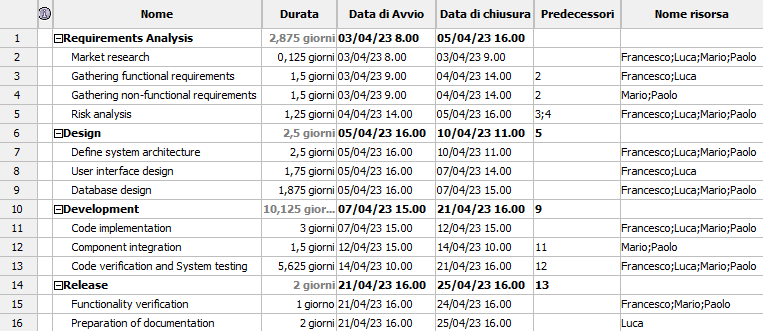
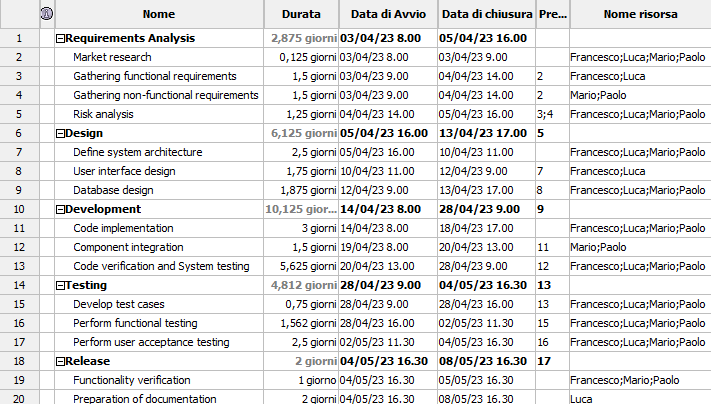
EstimationV2

diff --git a/EstimationV2.md b/EstimationV2.md
@@ -1,7 +1,7 @@
 # Project Estimation - FUTURE
-Date:
+Date: 21/04/2023
 
-Version:
+Version: 2
 
 
 # Estimation approach
@@ -10,34 +10,105 @@ Consider the EZWallet  project in FUTURE version (as proposed by the team), assu
 ### 
 |             | Estimate                        |             
 | ----------- | ------------------------------- |  
-| NC =  Estimated number of classes to be developed   |                             |             
-|  A = Estimated average size per class, in LOC       |                            | 
-| S = Estimated size of project, in LOC (= NC * A) | |
-| E = Estimated effort, in person hours (here use productivity 10 LOC per person hour)  |                                      |   
-| C = Estimated cost, in euro (here use 1 person hour cost = 30 euro) | | 
-| Estimated calendar time, in calendar weeks (Assume team of 4 people, 8 hours per day, 5 days per week ) |                    |               
+| NC =  Estimated number of classes to be developed   | 9 |             
+| A = Estimated average size per class, in LOC       | 56 LOC/NC | 
+| S = Estimated size of project, in LOC (= NC * A)  | 500 LOC |
+| E = Estimated effort, in person hours (here use productivity 10 LOC per person hour)  | 50 ph |   
+| C = Estimated cost, in euro (here use 1 person hour cost = 30 euro) | 1500 EUR | 
+| Estimated calendar time, in calendar weeks (Assume team of 4 people, 8 hours per day, 5 days per week ) | 0,3 week |               
 
 # Estimate by product decomposition
 ### 
 |         component name    | Estimated effort (person hours)   |             
 | ----------- | ------------------------------- | 
-|requirement document    | |
-| GUI prototype ||
-|design document ||
-|code ||
-| unit tests ||
-| api tests ||
-| management documents  ||
+| Requirement document | (3 days * 2 people) -> 48 ph |
+| GUI prototype | (1 days * 1 people) -> 8 ph |
+| Design document | (1 days * 2 people) -> 16 ph |
+| Code | (2 days * 4 people) 64 ph |
+| Unit tests | (3 days * 4 people) 96 ph |
+| API tests | (3 days * 4 people) 96 ph |
+| Management documents | (1 day * 1 person) -> 8 ph  |
+| TOT | 336 ph -> 2,1 weeks |
 
 
 
 # Estimate by activity decomposition
-### 
+## WBS 
+
+### Project
+ 
+    1. Requirements Analysis
+        1.1 Identify user requirements
+        1.2 Analyze system requirements
+        1.3 Gathering functional requirements
+        1.4 Gathering non-functional requirements
+
+    2. Design
+        2.1 Define system architecture
+        2.2 User interface design
+        2.3 Database design
+
+    3. Development
+        3.1 Code implementation
+        3.2 Component integration
+        3.3 Code verification
+
+    4. Testing
+        4.1 Develop test cases
+        4.2 Perform functional testing
+        4.3 Perform user acceptance testing
+
+    5. Release
+        5.1 Functionality verification
+        5.2 Preparation of documentation
+
+    6. Deployment
+        6.1 Prepare production environment
+        6.2 Deploy the application
+        6.3 Conduct system integration testing
+
+    7. Maintenance and support
+        7.1 Provide technical support
+        7.2 Fix bugs and troubleshoot issues
+        7.3 Implement updates and upgrades 
+
+
 |         Activity name    | Estimated effort (person hours)   |             
 | ----------- | ------------------------------- | 
-| | |
-###
-Insert here Gantt chart with above activities
+| Requirements Analysis | |
+| Identify user requirements | 8 ph |
+| Analyze system requirements | 16 ph |
+| Gathering functional requirements | 16 ph |
+| Gathering non-functional requirements | 16 ph |
+| Design | |
+| Define system architecture | 24 ph |
+| User interface design | 16 ph |
+| Database design | 40 ph |
+| Development | |
+| Code implementation | 50 ph |
+| Component integration | 24 ph |
+| Code verification | 100 ph |
+| Testing | |
+| Develop test cases | 24 ph |
+| Perform functional testing | 50 ph |
+| Perform user acceptance testing | 80 ph |
+| Release | |
+| Functionality verification | 24 ph |
+| Preparation of documentation | 16 ph |
+| Deployment | |
+| Prepare production environment | 8 ph |
+| Deploy the application | 8 ph |
+| Conduct system integration testing | 8 ph |
+| Maintenance and support | - ongoing - |
+| Provide technical support |  |
+| Fix bugs and troubleshoot issues |  |
+| Implement updates and upgrades |  |
+| TOT | 528 ph |
+
+### Gantt chart
+
+![Gantt chart](images/WBS_Gantt_chart_EstimationV2.png)
+![Gantt chart](images/Gantt_chart_EstimationV2.png)
 
 # Summary
 
@@ -45,10 +116,6 @@ Report here the results of the three estimation approaches. The  estimates may d
 
 |             | Estimated effort                        |   Estimated duration |          
 | ----------- | ------------------------------- | ---------------|
-| estimate by size ||
-| estimate by product decomposition ||
-| estimate by activity decomposition ||
-
-
-
-
+| estimate by size | 50 ph | 0,3 week|
+| estimate by product decomposition | 336 ph | 2,1 weeks |
+| estimate by activity decomposition | 528 ph | 4 weeks |

diff --git a/EstimationV1.md b/EstimationV1.md
@@ -15,7 +15,7 @@ Consider the EZWallet  project in CURRENT version (as received by the teachers),
 | S = Estimated size of project, in LOC (= NC * A) | 898 LOC |
 | E = Estimated effort, in person hours (here use productivity 10 LOC per person hour)  | 90 ph |   
 | C = Estimated cost, in euro (here use 1 person hour cost = 30 euro) | 2700 EUR | 
-| Estimated calendar time, in calendar weeks (Assume team of 4 people, 8 hours per day, 5 days per week ) | 1 week |               
+| Estimated calendar time, in calendar weeks (Assume team of 4 people, 8 hours per day, 5 days per week ) | 0,56 week |               
 
 # Estimate by product decomposition
 ### 
@@ -26,10 +26,10 @@ Consider the EZWallet  project in CURRENT version (as received by the teachers),
 | GUI prototype | (2 days * 1 people) -> 16 ph |
 | Design document | (2 days * 2 people) -> 32 ph |
 | Code | (3 days * 4 people) 96 ph |
-| Unit tests | (5 days * 4 people) 160 ph |
-| API tests | (3 days * 4 people) 96 ph |
+| Unit tests | (4 days * 4 people) 128 ph |
+| API tests | (4 days * 4 people) 128 ph |
 | Management documents | (1 day * 1 person) -> 8 ph  |
-| ----------- | ( TOT = 488 ph ) -> 3 weeks |
+| TOT |  488 ph -> 3,05 weeks |
 
 
 # Estimate by activity decomposition
@@ -54,9 +54,14 @@ Consider the EZWallet  project in CURRENT version (as received by the teachers),
         3.2 Component integration
         3.3 Code verification and System testing
 
-    4. Release
-        4.1 Functionality verification
-        4.2 Preparation of documentation
+    4. Testing
+        4.1 Develop test cases
+        4.2 Perform functional testing
+        4.3 Perform user acceptance testing
+
+    5. Release
+        5.1 Functionality verification
+        5.2 Preparation of documentation
 
 # Estimate by activity decomposition
 ### 
@@ -75,13 +80,16 @@ Consider the EZWallet  project in CURRENT version (as received by the teachers),
 | Code implementation | 96 ph |
 | Component integration | 24 ph |
 | Code verification and System testing | 180 ph |
+| Testing |  |
+| Develop test cases | 24 ph |
+| Perform functional testing | 50 ph |
+| Perform user acceptance testing | 80 ph |
 | Release |  |
 | Functionality verification | 24 ph |
 | Preparation of documentation | 16 ph |
-| TOT | 600 ph |
+| TOT | 754 ph |
 
-###
-Insert here Gantt chart with above activities
+### Gant chart
 
 ![Gantt chart](images/WBS_Gantt_chart_EstimationV1.png)
 ![Gantt chart](images/Gantt_chart_EstimationV1.png)
@@ -92,6 +100,6 @@ Report here the results of the three estimation approaches. The  estimates may d
 
 |             | Estimated effort                        |   Estimated duration |          
 | ----------- | ------------------------------- | ---------------|
-| estimate by size | 90 ph | 1 week |
-| estimate by product decomposition | 488 ph | 3 weeks |
-| estimate by activity decomposition | 615 ph | 4 weeks |
+| estimate by size | 90 ph | 0,56 week |
+| estimate by product decomposition | 488 ph | 3,05 weeks |
+| estimate by activity decomposition | 754 ph | 5,2 weeks |

diff --git a/TimeSheet.md b/TimeSheet.md
@@ -10,10 +10,10 @@ These figures will not be used to evaluate neither the project nor the team, the
 
 | Week | requirement engineering | design | coding | unit testing | integration testing | acceptance testing | management | git maven |
 |:-----------:|:--------:|:-----------:|:-----------:|:----------:|:------------:|:---------------:|:-------------:|:--------------:|
-| mar 27 - apr 2 | | 0 | | | | | | |
-| apr 3 - 9 | | 0 | | | | | | |
-| apr 10 - 16| 7:30 | 8 | | | | | | | 
-| apr 17 - 23| | | | | | | | | 
+| mar 27 - apr 2 | | 0 | | | | | 0 | |
+| apr 3 - 9 | | 0 | | | | | 2 | |
+| apr 10 - 16| 7:30 | 8 | | | | | 5 | | 
+| apr 17 - 23| | | | | | | 5 | | 
 | apr 24 - apr 30 | | | | | | | | | 
 | may 1 - 7  | | | | | | | | | 
 | may 8 - 14| | | | | | | | | 
